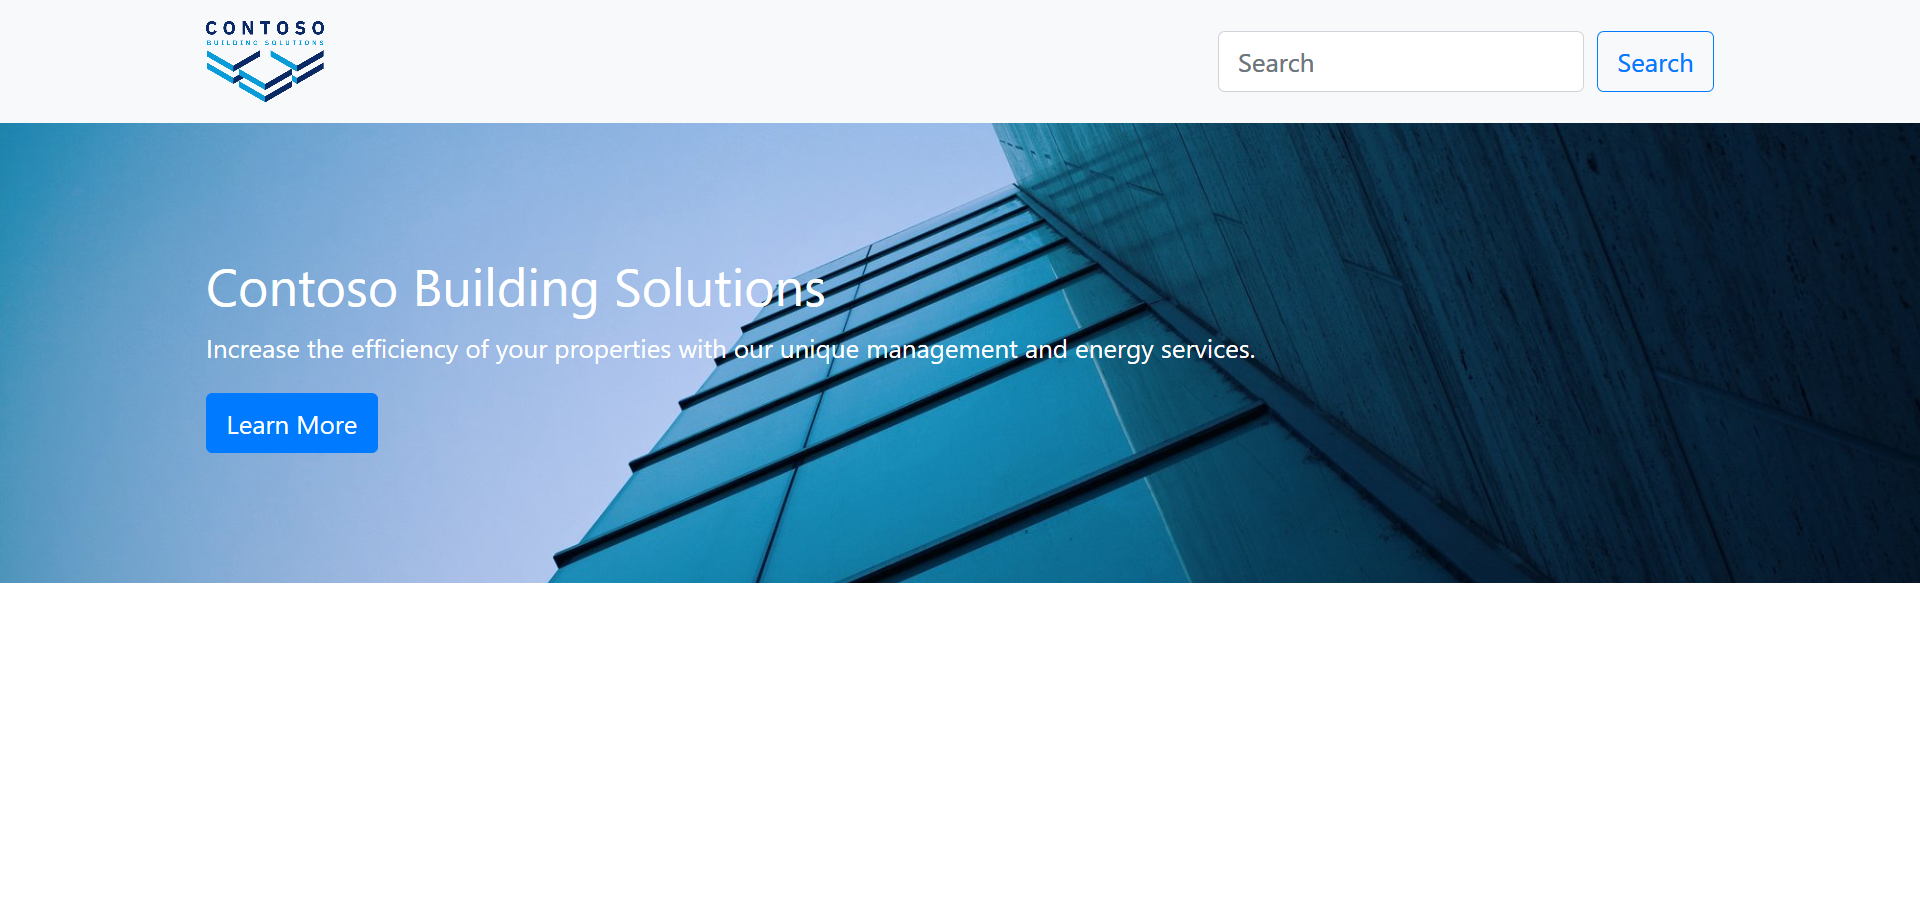
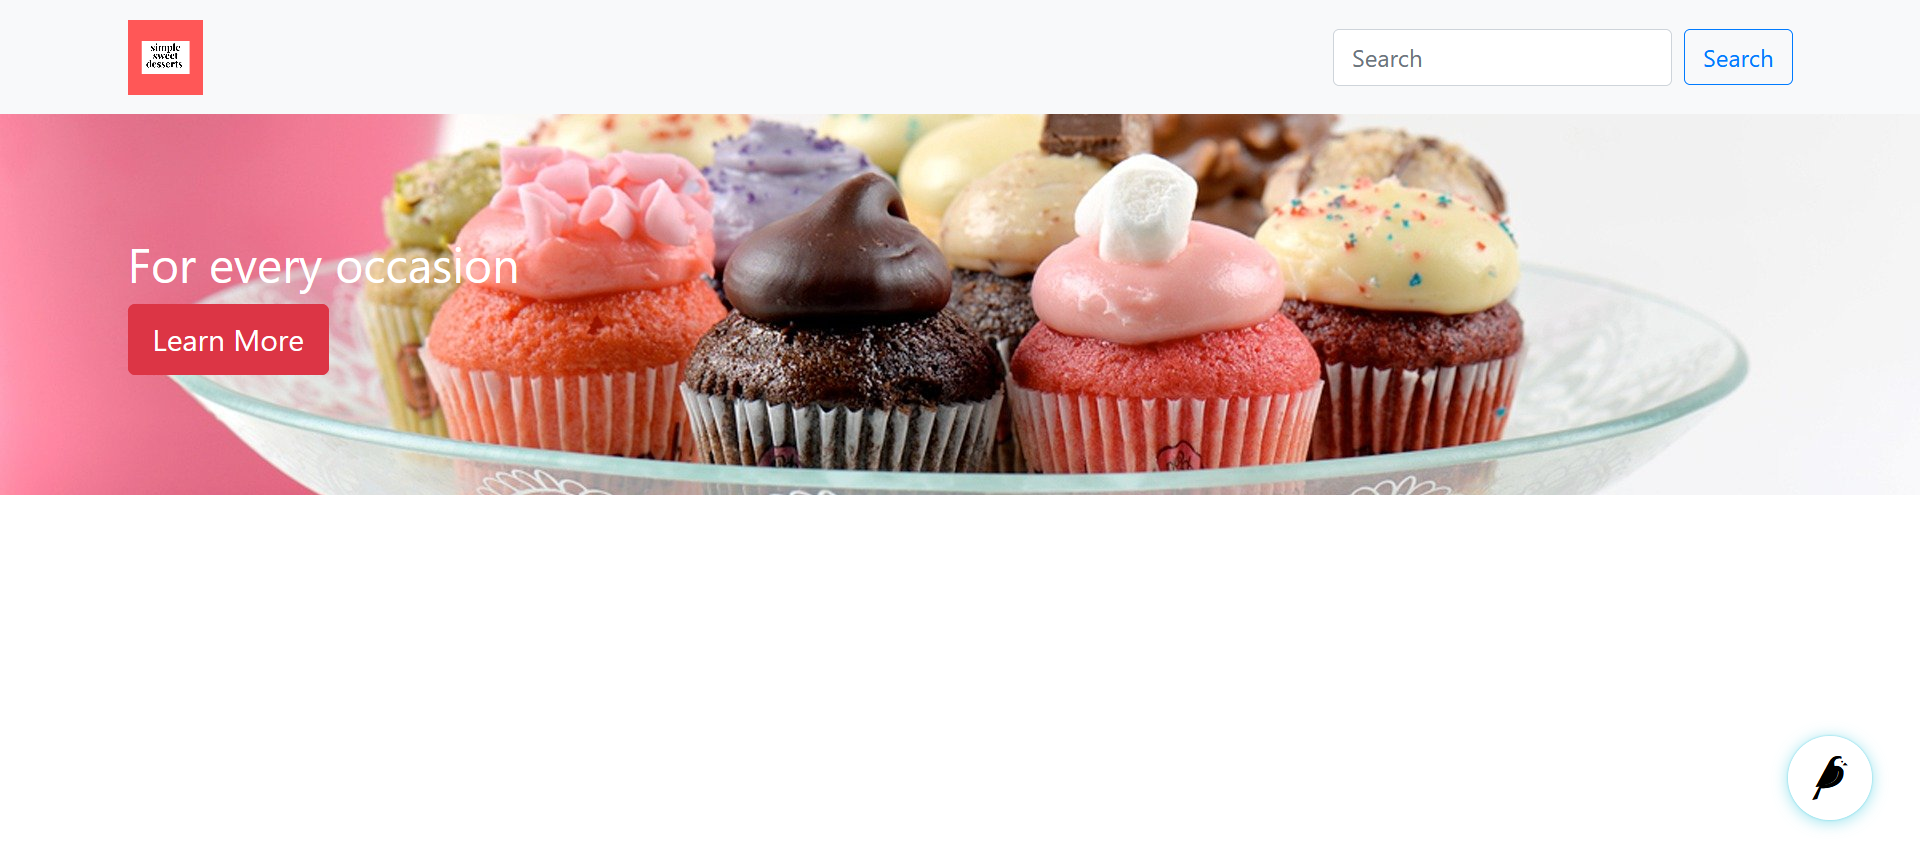
Started working on Part 3 of the tutorial, added images

diff --git a/docs/getting_started/tutorial03.rst b/docs/getting_started/tutorial03.rst
@@ -1,24 +1,46 @@
 Your First CodeRed Website: Part 3
 ==================================
 
-Coming soon: navigation and footer customization in CMS
+Let's begin to work on our navigation and footer setup.
 
-4 Creating a blog with built-in article pages
+Customizing the navigation
+--------------------------
 
-5 Classifiers to organize content in the CMS
+The general layout of your navbar can be found in the **Settings > Layout** 
+section of the Wagtail Admin. We previously discussed choosing a dark or 
+light navbar and adding Bootstrap classes, but you can also add/remove the
+Search bar, set it to fixed (stays at the top even when you scroll) or full-width, 
+decide on which screen size it will collapse into a menu hamburger, and whether to
+center the logo at the top or keep it toward the left. 
 
-6 Forms and Contact Us pages
+Create your menus
+-----------------
 
-7 SEO best practices
+Your navbar will have links to your other pages or external content that you want
+to share. To build your menu, go to **Snippets > Navigation Bars**. In the top right-
+hand corner is a button that says **Add Navigation Bar**. Click on this button to start!
+(Alternatively, you can also click on the link that says "Why not add one?")
 
-8 Media: optimize your media in the CMS
+.. figure:: img/tutorial_new_nav_edit1.png
+    :alt: The edit screen for adding a navbar.
 
-9 Password-protected pages in the CMS
+    The edit screen for adding a new navbar
 
-ADVANCED TUTORIALS
+Name your navbar. In this case, this will be our main navigation bar so we have simply named it
+Main Nav. 
 
-1 Customizing CSS and HTML (overriding a navbar, footer, a pagelist block and a page type -article page)
+There are three types of links that you can add to your navbar. Let's briefly describe each one:
 
-2 Coming soon: using custom page types in the code (a building page)
+* **Page link with sub-links** - Add links to pages from within your website. Add sub-links for dropdown items.
 
-3 Using classifiers - CMS and in the code
+* **External link with sub-links** - Add external links from other websites to your site, as well as sub-links.
+
+* **Document link with sub-links** - Add document links with sub-links to your navbar. 
+
+We don't have any other pages set up yet, but we can still create our menu. For now, we will just link to
+the Home page and update it once we have more pages. 
+
+.. figure:: img/tutorial_navbar_add_item1.png
+    :alt: Adding a menu item with page link.
+
+    The edit screen with our first navbar item.

diff --git a/docs/getting_started/tutorial02.rst b/docs/getting_started/tutorial02.rst
@@ -51,7 +51,7 @@ Great success!
 Adding cards to the home page
 -----------------------------
 
-Next, let's say my company offers three different services, and I'd like to add three
+Next, let's say my company offers three different baked goods, and I'd like to add three
 uniformly-sized cards on the home page representing that. Go back to the tab with the home page
 editor. All the way at the bottom of the page, click the "+" icon directly below the "Hero Unit" block.
 This will add a new block directly below the hero unit.
